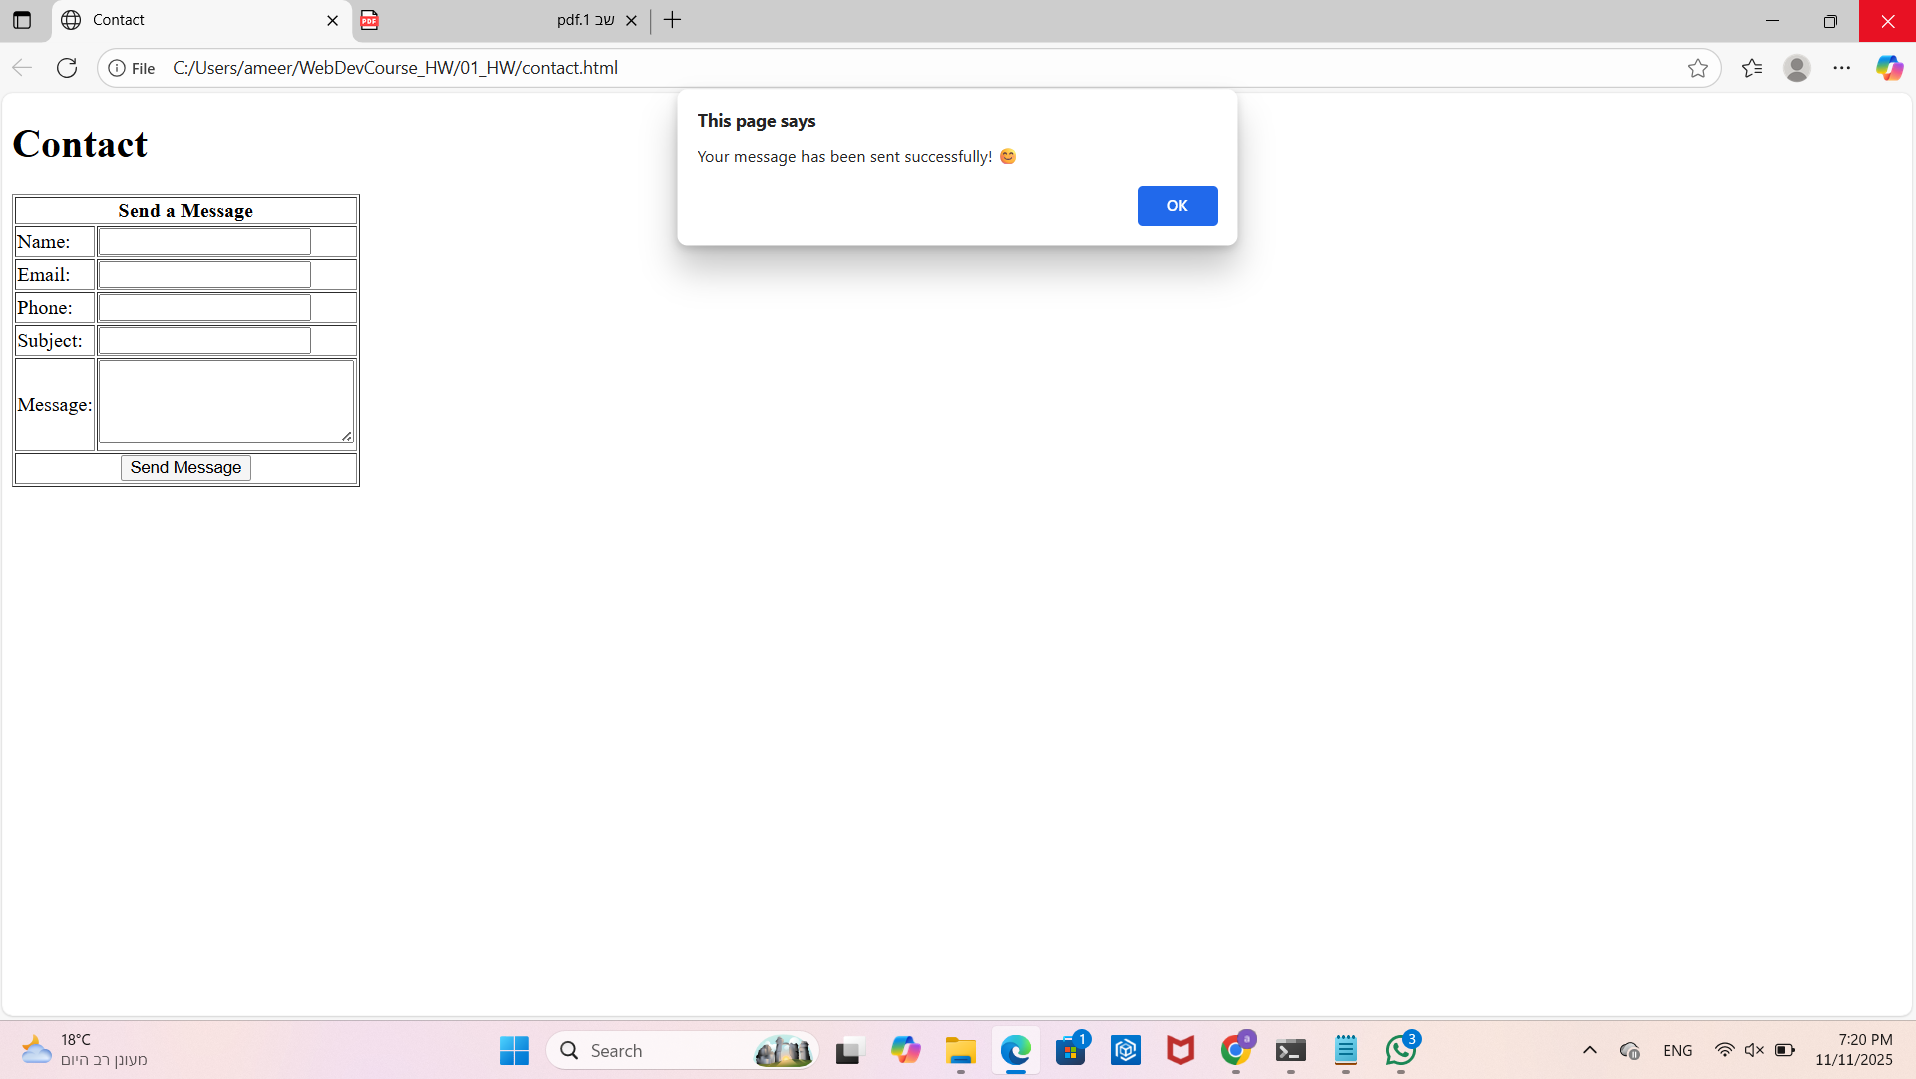
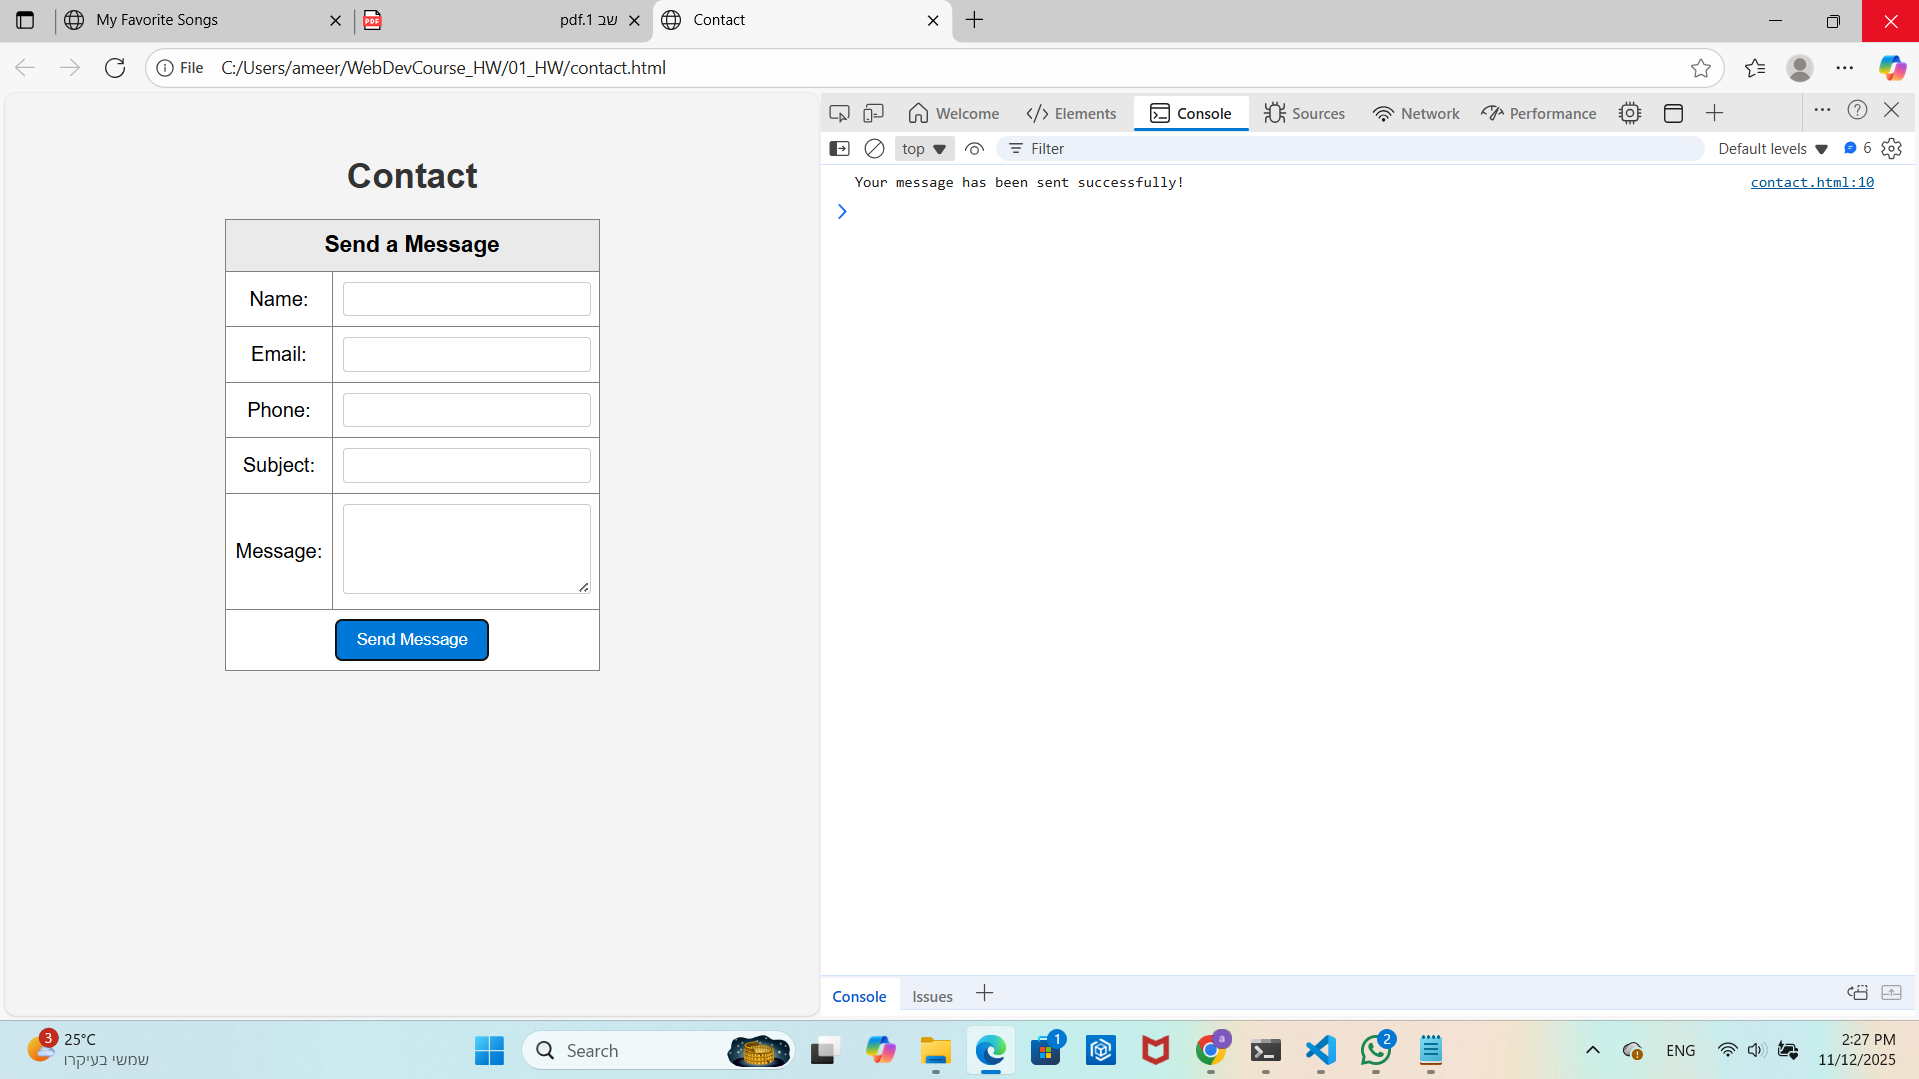
Added new screenshots 6.png and 12.png

diff --git a/01_HW/summary.html b/01_HW/summary.html
@@ -45,7 +45,7 @@
     <a href="audioList.html">Audio List</a> |
     <a href="contact.html">Contact</a> |
     <a href="playlist.html">Playlist</a> |
-    <a href="AllHtmlElements.html">All HTML Elements</a> |
+    <a href="tags.html">All HTML Elements</a> |
     <a href="summary.html">Summary</a>
   </nav>
 
@@ -53,75 +53,80 @@
 
   <table>
     <tr>
-      <th>Step</th>
       <th>Screenshot</th>
       <th>Commit Link (GitHub)</th>
     </tr>
 
     <tr>
-      <td>Step 1 – Initial repository setup and structure</td>
+      
       <td><img src="PRNT_IMAGES/1.png" alt="Step 1"></td>
-      <td><a href="https://github.com/ameermresat5-ai/WebDevCourse_HW/commit/XXXXXXXX" target="_blank">View Commit</a></td>
+      <td><a href="https://github.com/ameermresat5-ai/WebDevCourse_HW/blob/main/01_HW/PRNT_IMAGES/1.png" target="_blank">View Commit</a></td>
     </tr>
 
     <tr>
-      <td>Step 2 – Added AudioFiles folder</td>
+      
       <td><img src="PRNT_IMAGES/2.png" alt="Step 2"></td>
-      <td><a href="https://github.com/ameermresat5-ai/WebDevCourse_HW/commit/YYYYYYYY" target="_blank">View Commit</a></td>
+      <td><a href="https://github.com/ameermresat5-ai/WebDevCourse_HW/blob/main/01_HW/PRNT_IMAGES/2.png" target="_blank">View Commit</a></td>
     </tr>
 
     <tr>
-      <td>Step 3 – Added audioList.html and audioList.css</td>
+      
       <td><img src="PRNT_IMAGES/3.png" alt="Step 3"></td>
-      <td><a href="https://github.com/ameermresat5-ai/WebDevCourse_HW/commit/ZZZZZZZZ" target="_blank">View Commit</a></td>
+      <td><a href="https://github.com/ameermresat5-ai/WebDevCourse_HW/blob/main/01_HW/PRNT_IMAGES/3.png" target="_blank">View Commit</a></td>
     </tr>
 
     <tr>
-      <td>Step 4 – Added PRNT_IMAGES folder and first screenshots</td>
+      
       <td><img src="PRNT_IMAGES/4.png" alt="Step 4"></td>
-      <td><a href="https://github.com/ameermresat5-ai/WebDevCourse_HW/commit/AAAAAAA" target="_blank">View Commit</a></td>
+      <td><a href="https://github.com/ameermresat5-ai/WebDevCourse_HW/blob/main/01_HW/PRNT_IMAGES/4.png" target="_blank">View Commit</a></td>
     </tr>
 
     <tr>
-      <td>Step 5 – Created SKINS folder with CSS themes</td>
+      
       <td><img src="PRNT_IMAGES/5.png" alt="Step 5"></td>
-      <td><a href="https://github.com/ameermresat5-ai/WebDevCourse_HW/commit/BBBBBBB" target="_blank">View Commit</a></td>
+      <td><a href="https://github.com/ameermresat5-ai/WebDevCourse_HW/blob/main/01_HW/PRNT_IMAGES/5.png" target="_blank">View Commit</a></td>
     </tr>
 
     <tr>
-      <td>Step 6 – Implemented SKIN switching buttons in AllHtmlElements.html</td>
+      
       <td><img src="PRNT_IMAGES/6.png" alt="Step 6"></td>
-      <td><a href="https://github.com/ameermresat5-ai/WebDevCourse_HW/commit/CCCCCCC" target="_blank">View Commit</a></td>
+      <td><a href="https://github.com/ameermresat5-ai/WebDevCourse_HW/blob/main/01_HW/PRNT_IMAGES/6.png" target="_blank">View Commit</a></td>
     </tr>
 
     <tr>
-      <td>Step 7 – Added modern, dark, and basic CSS themes</td>
+      
       <td><img src="PRNT_IMAGES/7.png" alt="Step 7"></td>
-      <td><a href="https://github.com/ameermresat5-ai/WebDevCourse_HW/commit/DDDDDDD" target="_blank">View Commit</a></td>
+      <td><a href="https://github.com/ameermresat5-ai/WebDevCourse_HW/blob/main/01_HW/PRNT_IMAGES/7.png" target="_blank">View Commit</a></td>
     </tr>
 
     <tr>
-      <td>Step 8 – Pushed changes to GitHub</td>
+      
       <td><img src="PRNT_IMAGES/8.png" alt="Step 8"></td>
-      <td><a href="https://github.com/ameermresat5-ai/WebDevCourse_HW/commit/EEEEEEE" target="_blank">View Commit</a></td>
+      <td><a href="https://github.com/ameermresat5-ai/WebDevCourse_HW/blob/main/01_HW/PRNT_IMAGES/8.png" target="_blank">View Commit</a></td>
     </tr>
 
     <tr>
-      <td>Step 9 – Verified HTML rendering and functionality</td>
+      
       <td><img src="PRNT_IMAGES/9.png" alt="Step 9"></td>
-      <td><a href="https://github.com/ameermresat5-ai/WebDevCourse_HW/commit/FFFFFFF" target="_blank">View Commit</a></td>
+      <td><a href="https://github.com/ameermresat5-ai/WebDevCourse_HW/blob/main/01_HW/PRNT_IMAGES/9.png" target="_blank">View Commit</a></td>
     </tr>
 
     <tr>
-      <td>Step 10 – Final adjustments and design polish</td>
+      
       <td><img src="PRNT_IMAGES/10.png" alt="Step 10"></td>
-      <td><a href="https://github.com/ameermresat5-ai/WebDevCourse_HW/commit/GGGGGGG" target="_blank">View Commit</a></td>
+      <td><a href="https://github.com/ameermresat5-ai/WebDevCourse_HW/blob/main/01_HW/PRNT_IMAGES/10.png" target="_blank">View Commit</a></td>
     </tr>
 
     <tr>
-      <td>Step 11 – Summary page and final GitHub push</td>
+      
       <td><img src="PRNT_IMAGES/11.png" alt="Step 11"></td>
-      <td><a href="https://github.com/ameermresat5-ai/WebDevCourse_HW/commit/HHHHHHH" target="_blank">View Commit</a></td>
+      <td><a href="https://github.com/ameermresat5-ai/WebDevCourse_HW/blob/main/01_HW/PRNT_IMAGES/11.png" target="_blank">View Commit</a></td>
+    </tr>
+
+    <tr>
+      
+      <td><img src="PRNT_IMAGES/12.png" alt="Step 12"></td>
+      <td><a href="https://github.com/ameermresat5-ai/WebDevCourse_HW/blob/main/01_HW/PRNT_IMAGES/12.png" target="_blank">View Commit</a></td>
     </tr>
   </table>
 </body>

diff --git a/01_HW/SKINS/modern.css b/01_HW/SKINS/modern.css
@@ -50,15 +50,3 @@ form button {
 form button:hover {
     background-color: #2980b9;
 }
-body {
-  background: linear-gradient(to right, #74ebd5, #ACB6E5);
-  color: #222;
-  font-family: 'Poppins', sans-serif;
-}
-h1, h2, h3 {
-  color: #2c3e50;
-  text-shadow: 1px 1px 2px rgba(0,0,0,0.1);
-}
-a {
-  color: #1a237e;
-}

diff --git a/01_HW/contact.html b/01_HW/contact.html
@@ -6,7 +6,7 @@
   <link rel="stylesheet" href="contact.css">
   <script>
     function sendMessage() {
-      alert("Your message has been sent successfully! ");
+      console.log("Your message has been sent successfully! ");
     }
   </script>
 </head>

diff --git a/01_HW/SKINS/dark.css b/01_HW/SKINS/dark.css
@@ -49,14 +49,3 @@ form button {
 form button:hover {
     background-color: #3399ff;
 }
-body {
-  background-color: #1e1e1e;
-  color: #f0f0f0;
-  font-family: 'Segoe UI', sans-serif;
-}
-h1, h2, h3 {
-  color: #4fa3ff;
-}
-a {
-  color: #61dafb;
-}

diff --git a/01_HW/SKINS/basic.css b/01_HW/SKINS/basic.css
@@ -26,12 +26,3 @@ form input, form select, form textarea, form button {
     margin: 5px 0;
     padding: 5px;
 }
-body {
-  background-color: white;
-  color: black;
-  font-family: Arial, sans-serif;
-}
-h1, h2, h3 {
-  color: #0066cc;
-}
-

diff --git a/01_HW/contact.css b/01_HW/contact.css
@@ -1,4 +1,3 @@
-
 table {
   border: 2px solid #3b6fff;
   border-radius: 8px;
